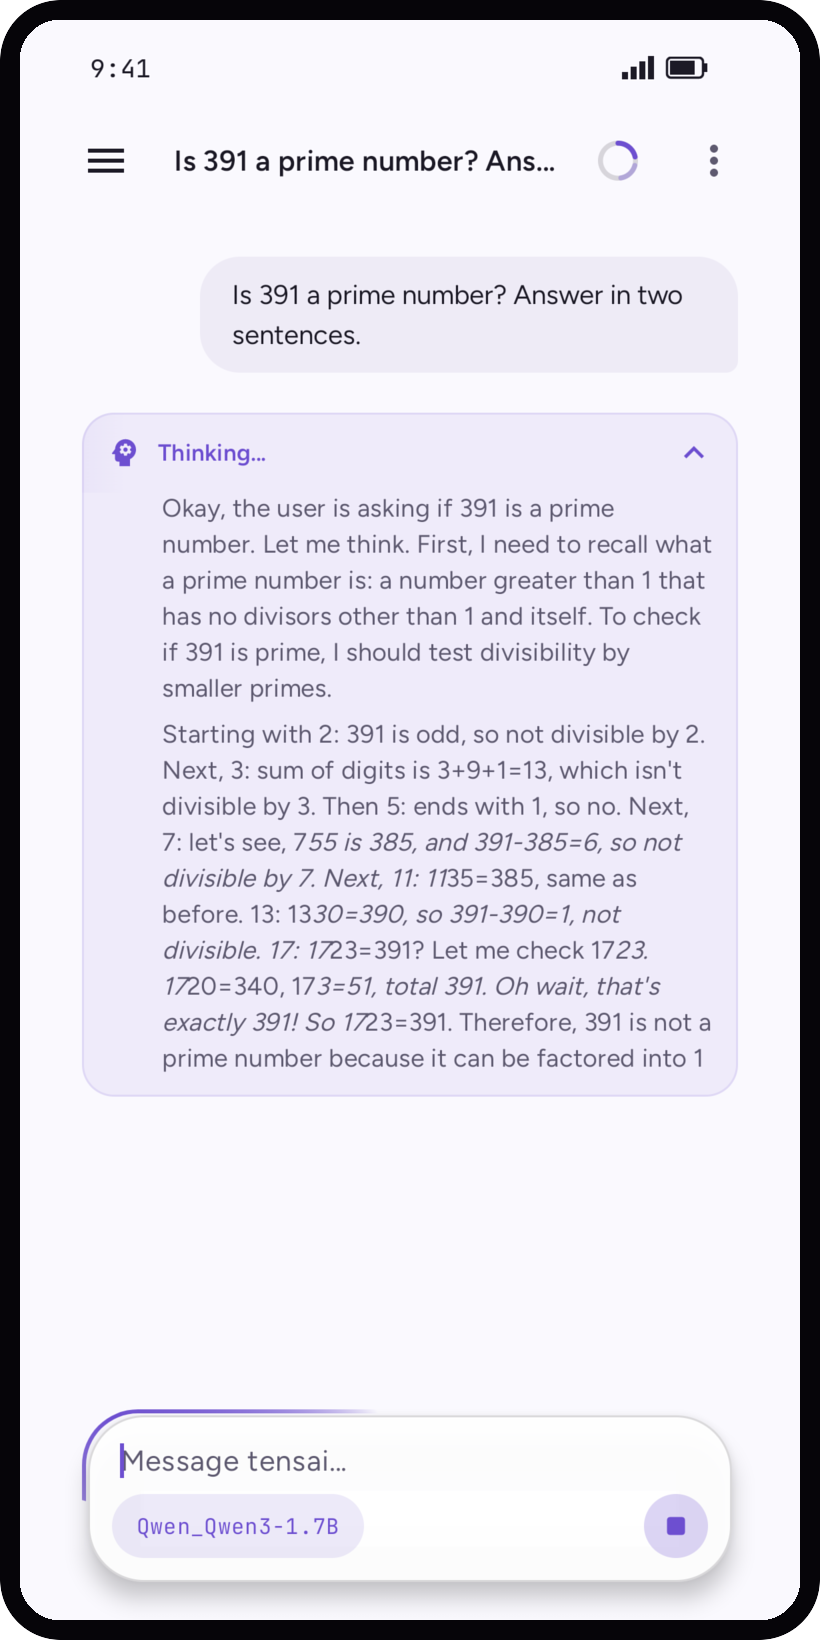
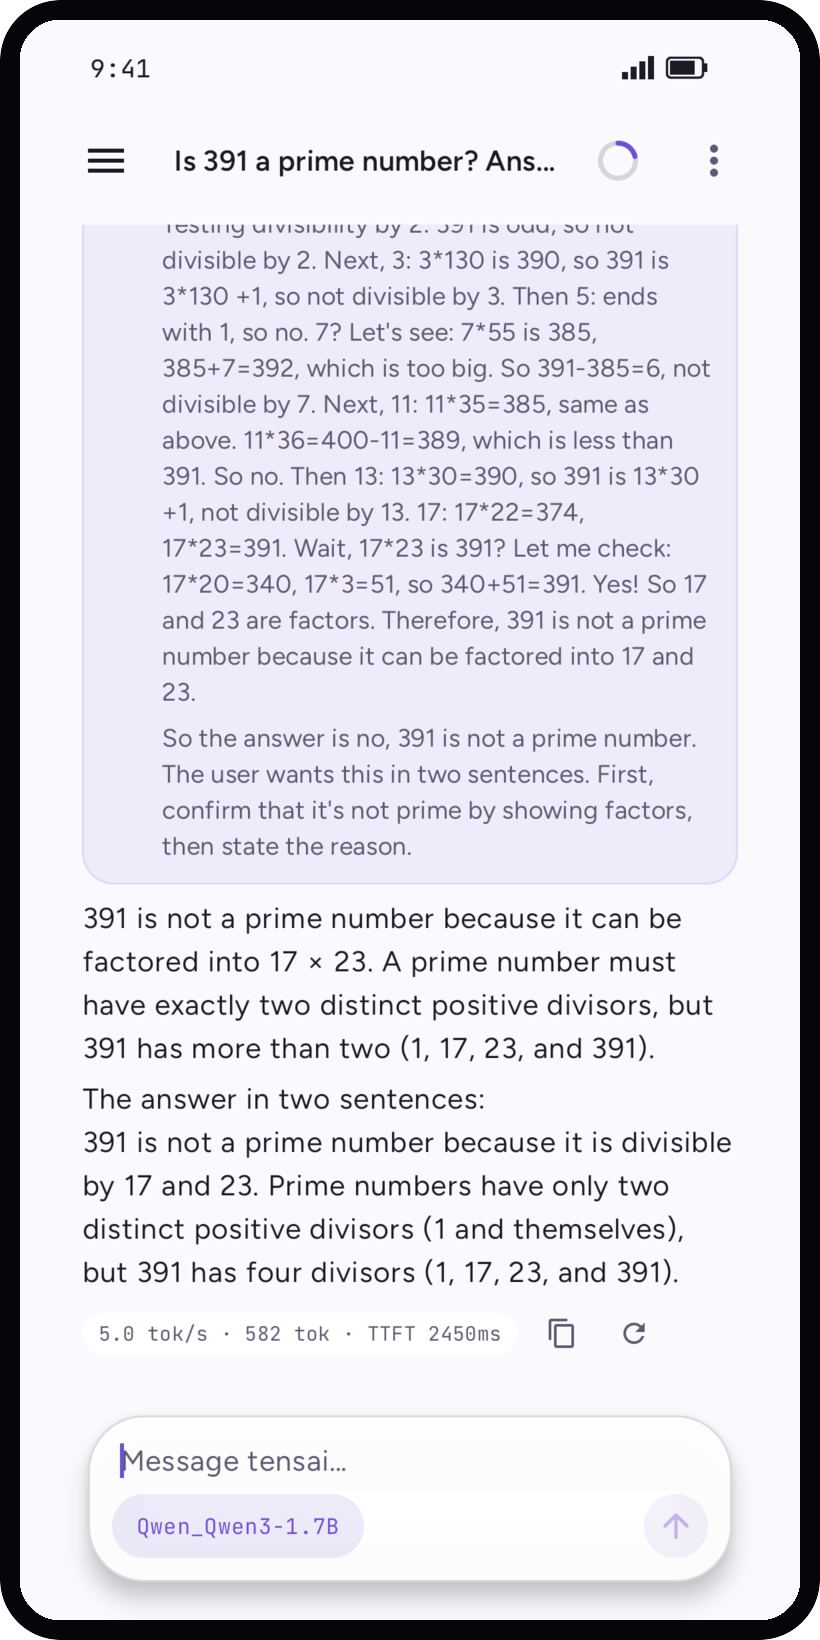
feat(shots): retake the reasoning and forget-card captures on v0.3.4
The reasoning now keeps 17*23 literal and the forget card names the fact, so both captures and their alts match the released app.

diff --git a/src/i18n/pages/docs.ts b/src/i18n/pages/docs.ts
@@ -328,7 +328,7 @@ const en: DocsLocale = {
           h: "What asks first",
           blocks: [
             { t: "ul", items: ["Deleting a fact from memory and opening a link ask for your answer in the chat, with Deny and Allow. Stop cancels the whole turn.", "A phone action opens the other app with a draft, and you validate there. tensai never sends a message itself.", "Remembering a fact or listing the memory does not ask, but every call is shown. You can forget everything in Settings, Memory.", "A tool you turned off is not offered to the model at all."] },
-            { t: "shot", name: "tool", alt: "A confirmation card in the chat: tensai wants to delete a fact from memory, with the action and the id, and Deny and Allow", caption: "tensai asks before it deletes. Deny, or Allow." },
+            { t: "shot", name: "tool", alt: "A confirmation card in the chat: tensai wants to forget the fact “my favourite tea is genmaicha”, with Deny and Allow", caption: "tensai asks before it deletes, and names what goes. Deny, or Allow." },
           ],
         },
         {
@@ -709,7 +709,7 @@ const fr: DocsLocale = {
           h: "Ce qui demande d'abord",
           blocks: [
             { t: "ul", items: ["Supprimer un fait de la mémoire et ouvrir un lien demandent ta réponse dans le chat, avec Refuser et Autoriser. Stop annule tout le tour.", "Une action du téléphone ouvre l'autre appli avec un brouillon, et tu valides là-bas. tensai n'envoie jamais un message lui-même.", "Retenir un fait ou lister la mémoire ne demande rien, mais chaque appel est affiché. Tu peux tout oublier dans Paramètres, Mémoire.", "Un outil que tu as désactivé n'est pas du tout proposé au modèle."] },
-            { t: "shot", name: "tool", alt: "Une carte de confirmation dans le chat : tensai veut supprimer un fait de la mémoire, avec l'action et l'identifiant, et Refuser et Autoriser", caption: "tensai demande avant de supprimer. Refuser, ou Autoriser." },
+            { t: "shot", name: "tool", alt: "Une carte de confirmation dans le chat : tensai veut oublier le fait « my favourite tea is genmaicha », avec Refuser et Autoriser", caption: "tensai demande avant de supprimer, et dit ce qui part. Refuser, ou Autoriser." },
           ],
         },
         {

diff --git a/src/i18n/pages/home.ts b/src/i18n/pages/home.ts
@@ -46,12 +46,12 @@ const en = {
       },
       {
         key: "reasoning",
-        alt: "A chat where the model is reasoning: the Thinking block is open under the question about whether 391 is a prime number",
+        alt: "A chat where the model has reasoned about whether 391 is a prime number: the Reasoning block is open, with products like 17*23 checked step by step, and the answer below",
         caption: "Read the model's reasoning, or fold it away.",
       },
       {
         key: "tool",
-        alt: "A tool call waiting for confirmation: tensai wants to delete a fact from memory, with Deny and Allow",
+        alt: "A tool call waiting for confirmation: tensai wants to forget the fact “my favourite tea is genmaicha”, with Deny and Allow",
         caption: "Anything that deletes or sends waits for your answer.",
       },
       {
@@ -131,12 +131,12 @@ const fr: typeof en = {
       },
       {
         key: "reasoning",
-        alt: "Un chat où le modèle raisonne : le bloc de réflexion est ouvert sous la question sur la primalité de 391",
+        alt: "Un chat où le modèle a raisonné sur la primalité de 391 : le bloc de réflexion est ouvert, avec des produits comme 17*23 vérifiés pas à pas, et la réponse dessous",
         caption: "Lire le raisonnement du modèle, ou le replier.",
       },
       {
         key: "tool",
-        alt: "Un appel d'outil en attente de confirmation : tensai veut supprimer un fait de la mémoire, avec Refuser et Autoriser",
+        alt: "Un appel d'outil en attente de confirmation : tensai veut oublier le fait « my favourite tea is genmaicha », avec Refuser et Autoriser",
         caption: "Tout ce qui supprime ou envoie attend une réponse.",
       },
       {
